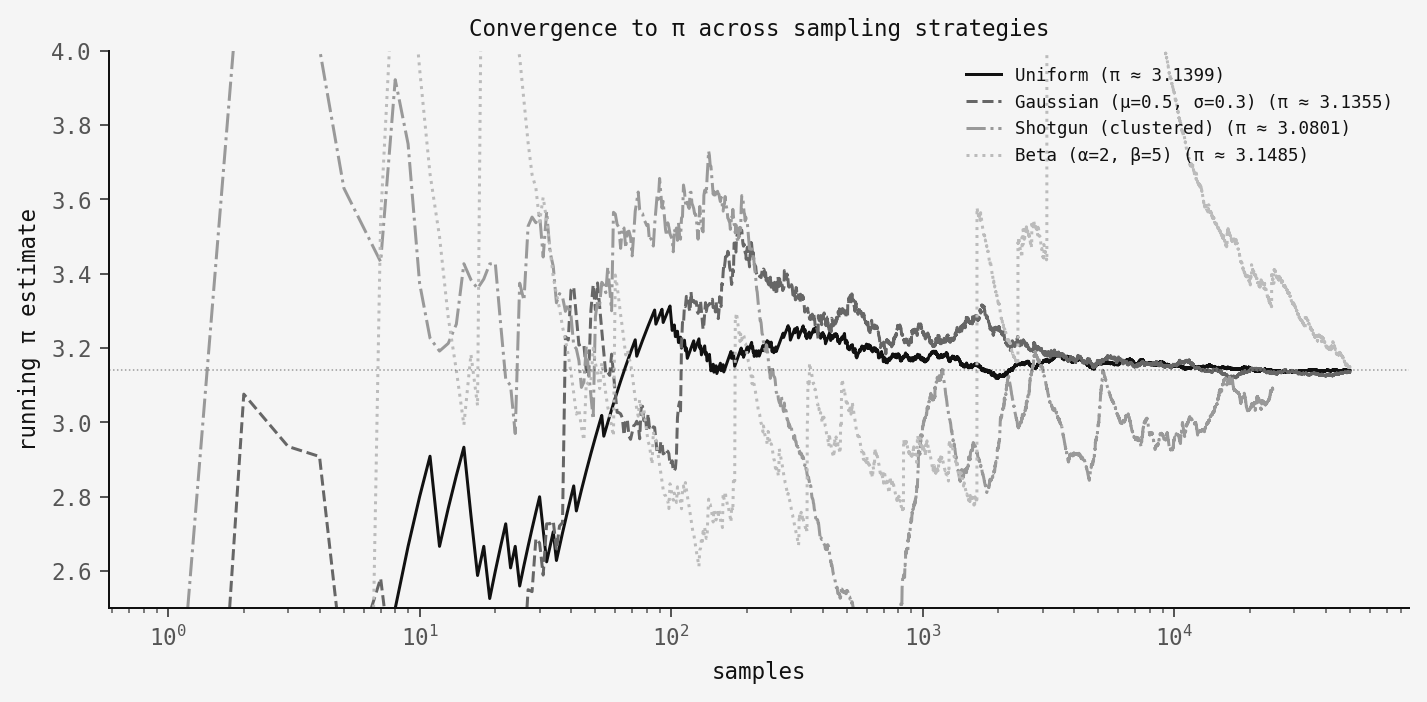
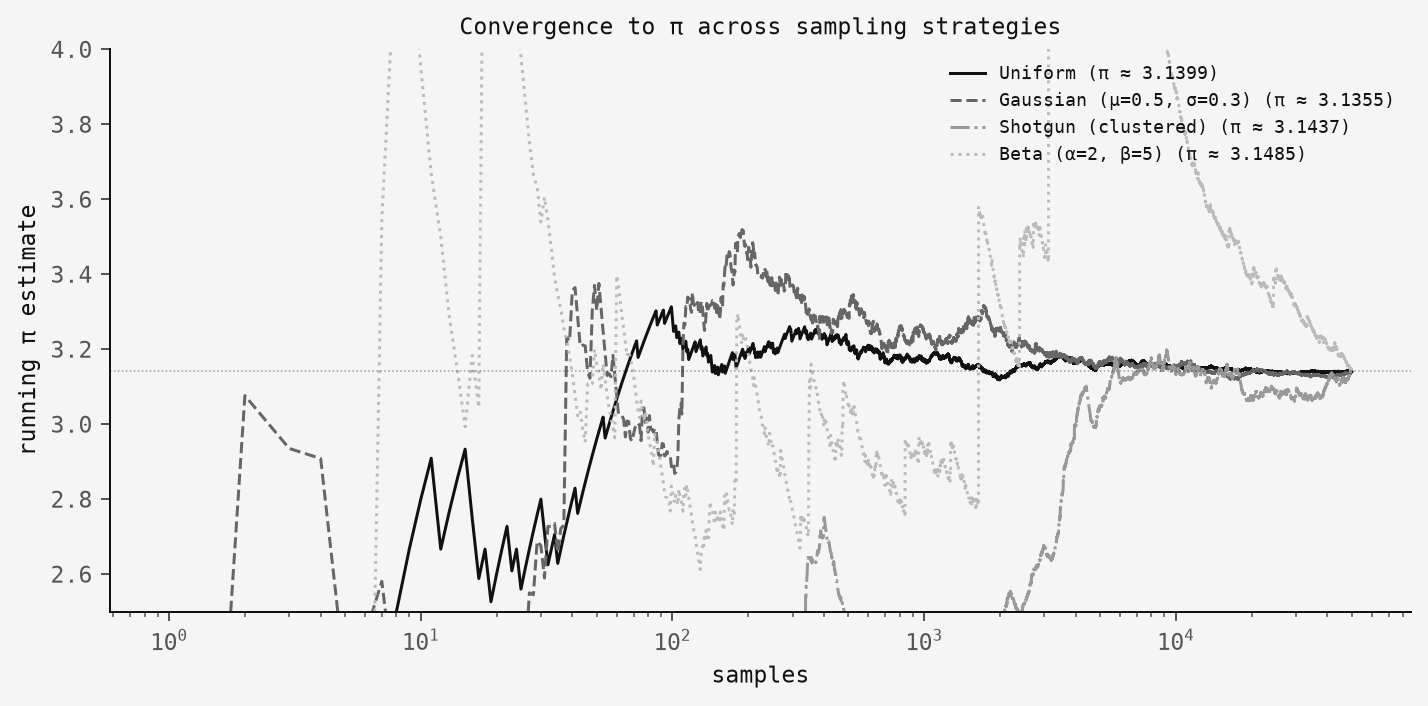
Fix the review findings in the post scripts, the simulations, the footer and the figures.

diff --git a/posts/zombie-pi/post.html b/posts/zombie-pi/post.html
@@ -120,7 +120,10 @@ tags: [monte-carlo, statistics, python]
       <p>
         They all end up at π. Uniform is the smoothest, since nothing needs
         correcting. Gaussian and Beta get there too but wobble a bit more,
-        because the weights add variance. The shotgun is the noisiest of the
+        because the weights add variance. Beta is the risky one: its density
+        drops to zero at the edges of the square, so the weights there have
+        no upper bound and its variance is infinite. With another seed it can
+        land well away from π. The shotgun is the noisiest of the
         four. Its density q(x) has to be estimated from the data, so there's
         uncertainty in the weights on top of the usual sampling noise.
       </p>
@@ -184,9 +187,11 @@ tags: [monte-carlo, statistics, python]
       <p>
         The shotgun was the hardest of the four because there's no formula
         for its density. I had to estimate q(x) from the pellet holes
-        themselves, using half the samples to build a histogram and the
-        other half to compute π, as in the paper. The result is noisy, but
-        it still converges.
+        themselves with a 2D histogram, and then rescale it so that the
+        weights inside the square average to the square's area. Without
+        the rescale the estimate came out several percent off, because the
+        histogram only sees the pellets that hit the square. The result is
+        noisy, but it still converges.
       </p>
 
       <p>

diff --git a/posts/parrondos-paradox/post.html b/posts/parrondos-paradox/post.html
@@ -122,15 +122,21 @@ tags: [python, monte-carlo, statistics]
         The game logic is one short function:
       </p>
 
-<pre><code>def play_round(capital, game, rng, p1=0.495, p2=0.095, p3=0.745):
-    """Play one round. Returns +1 (win) or -1 (loss)."""
-    if game == 'A':
-        return 1 if rng.random() < p1 else -1
-    else:  # Game B
-        if capital % 3 == 0:
-            return 1 if rng.random() < p2 else -1
+<pre><code>def simulate(strategy, n_rounds, n_players, rng, p1=0.495, p2=0.095, p3=0.745):
+    capitals = np.zeros((n_players, n_rounds + 1), dtype=int)
+    cap = np.zeros(n_players, dtype=int)
+
+    for t in range(n_rounds):
+        if strategy == 'AB':
+            play_a = rng.random(n_players) &lt; 0.5
         else:
-            return 1 if rng.random() < p3 else -1</code></pre>
+            play_a = np.full(n_players, strategy == 'A')
+        p_b = np.where(cap % 3 == 0, p2, p3)
+        p_win = np.where(play_a, p1, p_b)
+        cap += np.where(rng.random(n_players) &lt; p_win, 1, -1)
+        capitals[:, t + 1] = cap
+
+    return capitals</code></pre>
 
       <p>
         Game A uses one fixed probability. Game B looks at your capital mod 3

diff --git a/_includes/footer.html b/_includes/footer.html
@@ -1,1 +1,1 @@
-<footer class="footer"{% if include.full_width %} style="width:100%"{% endif %}>&copy; {{ site.time | date: '%Y' }} justesen.xyz</footer>
+<footer class="footer"{% if include.full_width %} style="width:100%"{% endif %}>&copy; 2026 justesen.xyz</footer>

diff --git a/posts/zombie-pi/code.py b/posts/zombie-pi/code.py
@@ -4,7 +4,7 @@ code.py — Estimating π with Monte Carlo & Importance Sampling
 Demonstrates that you can estimate π using *any* 2D distribution,
 not just uniform sampling, by applying importance sampling weights.
 
-Generates figures for the accompanying blog post.
+Writes the figures for the blog post to the site's assets/ directory.
 
 Usage:
     python code.py
@@ -13,7 +13,7 @@ Requirements:
     numpy, matplotlib, scipy
 """
 
-import os
+from pathlib import Path
 
 import matplotlib.pyplot as plt
 import numpy as np
@@ -22,8 +22,7 @@ from scipy import stats
 # ── Config ──────────────────────────────────────────────────
 RNG = np.random.default_rng(42)
 N_SAMPLES = 50_000
-FIG_DIR = "figures"
-os.makedirs(FIG_DIR, exist_ok=True)
+FIG_DIR = Path(__file__).resolve().parents[2] / "assets"
 
 # Plot style — monochrome, minimal, matches the site
 plt.rcParams.update(
@@ -46,12 +45,12 @@ plt.rcParams.update(
 
 # ── Helpers ─────────────────────────────────────────────────
 def in_quarter_circle(x: np.ndarray, y: np.ndarray) -> np.ndarray:
-    """g(x, y) = 1 if x² + y² ≤ 1, else 0."""
+    """Return 1.0 where x² + y² ≤ 1, else 0.0. :param x: np.ndarray :param y: np.ndarray :rtype: np.ndarray"""
     return (x**2 + y**2 <= 1.0).astype(float)
 
 
 def estimate_pi_uniform(x: np.ndarray, y: np.ndarray) -> float:
-    """Classic Monte Carlo: π ≈ 4 * (hits / N)."""
+    """Return the plain Monte Carlo estimate 4 · hits / N. :param x: np.ndarray :param y: np.ndarray :rtype: float"""
     return 4.0 * in_quarter_circle(x, y).mean()
 
 
@@ -61,33 +60,19 @@ def estimate_pi_importance(
     q_x: np.ndarray,
     q_y: np.ndarray,
 ) -> float:
-    """
-    Importance sampling estimate of π.
-
-    f(x,y) = 1 on [0,1]² (the target uniform density)
-    q(x,y) = q_x * q_y  (the proposal density, factorised)
-
-    π ≈ 4 * (1/N) Σ g(xᵢ,yᵢ) * f(xᵢ,yᵢ) / q(xᵢ,yᵢ)
-
-    We only count samples that land in [0,1]², and the
-    importance weight corrects for the non-uniform density.
-    """
+    """Return 4 · mean(g · f / q) with f = 1 on [0,1]² and q = q_x · q_y. :param x: np.ndarray :param y: np.ndarray :param q_x: np.ndarray :param q_y: np.ndarray :rtype: float"""
     mask = (x >= 0) & (x <= 1) & (y >= 0) & (y <= 1)
     g = in_quarter_circle(x[mask], y[mask])
     weights = 1.0 / (q_x[mask] * q_y[mask])  # f=1 on the unit square
-    # Scale by (total samples / in-square samples) isn't needed if we
-    # use the full-sample mean with 0 contribution outside [0,1]²
-    # But cleaner: use the proper IS estimator over ALL samples
     full_weights = np.zeros_like(x)
     full_g = np.zeros_like(x)
     full_g[mask] = g
     full_weights[mask] = weights
-    full_weights[~mask] = 0.0  # f(x)=0 outside unit square
     return 4.0 * np.mean(full_g * full_weights)
 
 
 def convergence_curve(estimates: np.ndarray) -> np.ndarray:
-    """Running cumulative mean."""
+    """Return the running mean. :param estimates: np.ndarray :rtype: np.ndarray"""
     return np.cumsum(estimates) / np.arange(1, len(estimates) + 1)
 
 
@@ -124,8 +109,7 @@ class GaussianSampler:
 
 
 class ShotgunSampler:
-    """Simulates a clustered shotgun-like spread — bivariate Gaussian
-    with a random center per 'shot' (batch of pellets)."""
+    """Clustered pellets: a Gaussian spread around a random aim point per shot."""
 
     name = "Shotgun (clustered)"
     color = "#999"
@@ -146,30 +130,18 @@ class ShotgunSampler:
         x = np.concatenate(xs)[:n]
         y = np.concatenate(ys)[:n]
 
-        # Estimate q(x,y) with 2D histogram (like the paper)
-        # Use half for density estimation
-        split = n // 2
-        x_est, y_est = x[:split], y[:split]
-        x_eval, y_eval = x[split:], y[split:]
+        bins = 40
+        hist, xedges, yedges = np.histogram2d(x, y, bins=bins, range=[[0, 1], [0, 1]], density=True)
+        x_idx = np.clip(np.digitize(x, xedges) - 1, 0, bins - 1)
+        y_idx = np.clip(np.digitize(y, yedges) - 1, 0, bins - 1)
+        in_square = (x >= 0) & (x <= 1) & (y >= 0) & (y <= 1)
+        # q comes from the same pellets it weights, so every in-square pellet has a non-empty bin.
+        q_vals = np.where(in_square, hist[x_idx, y_idx], 1.0)
+        # The histogram only sees pellets inside the square, so q is rescaled until the
+        # in-square weights average to the square's area (1); this makes the estimate self-normalised.
+        q_vals = q_vals * np.mean(np.where(in_square, 1.0 / q_vals, 0.0))
 
-        bins = 20
-        hist, xedges, yedges = np.histogram2d(x_est, y_est, bins=bins, range=[[0, 1], [0, 1]], density=True)
-
-        # Smooth the histogram a bit to avoid zero bins
-        from scipy.ndimage import uniform_filter
-
-        hist = uniform_filter(hist, size=2)
-        # Renormalize
-        bin_area = (1.0 / bins) ** 2
-        hist = hist / (hist.sum() * bin_area)
-
-        # For each eval point, look up the bin density
-        x_idx = np.clip(np.digitize(x_eval, xedges) - 1, 0, bins - 1)
-        y_idx = np.clip(np.digitize(y_eval, yedges) - 1, 0, bins - 1)
-        q_vals = hist[x_idx, y_idx]
-        q_vals = np.maximum(q_vals, 0.01)  # floor to avoid extreme weights
-
-        return x_eval, y_eval, q_vals, np.ones_like(q_vals)
+        return x, y, q_vals, np.ones_like(q_vals)
 
 
 class BetaSampler:
@@ -199,11 +171,9 @@ for sampler in samplers:
 
     if isinstance(sampler, UniformSampler):
         pi_est = estimate_pi_uniform(x, y)
-        # Per-sample estimates for convergence
         per_sample = 4.0 * in_quarter_circle(x, y)
     else:
         pi_est = estimate_pi_importance(x, y, qx, qy)
-        # Per-sample weighted estimates for convergence
         mask = (x >= 0) & (x <= 1) & (y >= 0) & (y <= 1)
         per_sample = np.zeros_like(x)
         g = in_quarter_circle(x[mask], y[mask])
@@ -229,7 +199,6 @@ for ax, sampler in zip(axes, samplers):
     r = results[sampler.name]
     x, y = r["x"], r["y"]
 
-    # Clip to visible range for plotting
     vis = (x >= -0.1) & (x <= 1.1) & (y >= -0.1) & (y <= 1.1)
     xv, yv = x[vis][:5000], y[vis][:5000]
     inside = in_quarter_circle(xv, yv).astype(bool)
@@ -237,7 +206,6 @@ for ax, sampler in zip(axes, samplers):
     ax.scatter(xv[inside], yv[inside], s=0.5, c="#111", alpha=0.3, linewidths=0)
     ax.scatter(xv[~inside], yv[~inside], s=0.5, c="#aaa", alpha=0.3, linewidths=0)
 
-    # Quarter circle arc
     theta = np.linspace(0, np.pi / 2, 100)
     ax.plot(np.cos(theta), np.sin(theta), c="#111", lw=0.8)
     ax.set_xlim(-0.05, 1.05)
@@ -287,7 +255,6 @@ print(f"Saved {FIG_DIR}/convergence.png")
 # ── Figure 3: Importance weights heatmap (Gaussian case) ───
 fig, axes = plt.subplots(1, 3, figsize=(12, 3.8))
 
-# Panel 1: Gaussian density
 gx = np.linspace(0, 1, 100)
 gy = np.linspace(0, 1, 100)
 GX, GY = np.meshgrid(gx, gy)
@@ -297,14 +264,12 @@ axes[0].contourf(GX, GY, Z_q, levels=20, cmap="Greys")
 axes[0].set_title("q(x,y): proposal density", fontsize=8)
 axes[0].set_aspect("equal")
 
-# Panel 2: Importance weights f/q
-Z_f = np.ones_like(GX)  # uniform on [0,1]²
+Z_f = np.ones_like(GX)
 Z_w = Z_f / Z_q
 axes[1].contourf(GX, GY, Z_w, levels=20, cmap="Greys")
 axes[1].set_title("f(x,y) / q(x,y): importance weights", fontsize=8)
 axes[1].set_aspect("equal")
 
-# Panel 3: Effective weighted samples
 r = results[gauss.name]
 x, y = r["x"], r["y"]
 vis = (x >= 0) & (x <= 1) & (y >= 0) & (y <= 1)
@@ -328,4 +293,4 @@ fig.savefig(f"{FIG_DIR}/importance_weights.png", dpi=180, bbox_inches="tight")
 plt.close(fig)
 print(f"Saved {FIG_DIR}/importance_weights.png")
 
-print("\nDone. All figures saved to figures/")
+print(f"\nDone. All figures saved to {FIG_DIR}")

diff --git a/posts/parrondos-paradox/code.py b/posts/parrondos-paradox/code.py
@@ -4,7 +4,7 @@ code.py — Parrondo's Paradox: Two Losing Games Make a Winner
 Simulates Game A (biased coin) and Game B (capital-dependent coin),
 shows that both lose individually but win when combined.
 
-Generates figures for the accompanying blog post.
+Writes the figures for the blog post to the site's assets/ directory.
 
 Usage:
     python code.py
@@ -13,7 +13,7 @@ Requirements:
     numpy, matplotlib
 """
 
-import os
+from pathlib import Path
 
 import matplotlib.pyplot as plt
 import numpy as np
@@ -22,8 +22,7 @@ import numpy as np
 RNG = np.random.default_rng(42)
 N_ROUNDS = 10_000
 N_PLAYERS = 1_000
-FIG_DIR = 'figures'
-os.makedirs(FIG_DIR, exist_ok=True)
+FIG_DIR = Path(__file__).resolve().parents[2] / 'assets'
 
 # Default probabilities
 P1 = 0.495       # Game A: win probability (< 0.5, losing)
@@ -50,43 +49,27 @@ plt.rcParams.update(
 
 
 # ── Core functions ──────────────────────────────────────────
-def play_round(capital, game, rng, p1=P1, p2=P2, p3=P3):
-    """Play one round. Returns +1 (win) or -1 (loss)."""
-    if game == 'A':
-        return 1 if rng.random() < p1 else -1
-    else:  # Game B
-        if capital % 3 == 0:
-            return 1 if rng.random() < p2 else -1
-        else:
-            return 1 if rng.random() < p3 else -1
-
-
 def simulate(strategy, n_rounds, n_players, rng, p1=P1, p2=P2, p3=P3):
-    """
-    Simulate n_players playing n_rounds.
-
-    strategy: 'A', 'B', or 'AB' (random switching, 50/50 each round)
-    Returns: (n_players, n_rounds+1) array of capital over time.
-    """
+    """Return capital paths of shape (n_players, n_rounds + 1). :param strategy: str 'A', 'B' or 'AB' (50/50 switch each round) :param n_rounds: int :param n_players: int :param rng: np.random.Generator :param p1: float :param p2: float :param p3: float :rtype: np.ndarray"""
     capitals = np.zeros((n_players, n_rounds + 1), dtype=int)
+    cap = np.zeros(n_players, dtype=int)
 
-    for i in range(n_players):
-        cap = 0
-        for t in range(n_rounds):
-            if strategy == 'A':
-                game = 'A'
-            elif strategy == 'B':
-                game = 'B'
-            else:  # AB random switching
-                game = 'A' if rng.random() < 0.5 else 'B'
-            cap += play_round(cap, game, rng, p1, p2, p3)
-            capitals[i, t + 1] = cap
+    for t in range(n_rounds):
+        if strategy == 'AB':
+            play_a = rng.random(n_players) < 0.5
+        else:
+            play_a = np.full(n_players, strategy == 'A')
+        p_b = np.where(cap % 3 == 0, p2, p3)
+        p_win = np.where(play_a, p1, p_b)
+        cap += np.where(rng.random(n_players) < p_win, 1, -1)
+        capitals[:, t + 1] = cap
 
     return capitals
 
 
 # ── Figure 1: Capital trajectories ─────────────────────────
 def figure_1_trajectories(results):
+    """Plot mean capital over time per strategy. :param results: dict[str, np.ndarray] :rtype: None"""
     fig, ax = plt.subplots(figsize=(8, 4))
 
     styles = {
@@ -113,20 +96,18 @@ def figure_1_trajectories(results):
 
 # ── Figure 2: Mod-3 state distribution ─────────────────────
 def figure_2_state_distribution(results):
+    """Plot the capital mod 3 frequencies. :param results: dict[str, np.ndarray] :rtype: None"""
     fig, axes = plt.subplots(1, 3, figsize=(12, 3.8))
 
     bar_colors = ['#111', '#666', '#999']
     labels = ['0 (bad coin)', '1', '2']
 
-    # Game B alone — collect mod-3 states from all rounds
-    b_caps = results['B'][:, 1:].flatten()  # skip initial 0
+    b_caps = results['B'][:, 1:].flatten()
     b_counts = np.array([(b_caps % 3 == i).mean() for i in range(3)])
 
-    # Combined — collect mod-3 states
     ab_caps = results['AB'][:, 1:].flatten()
     ab_counts = np.array([(ab_caps % 3 == i).mean() for i in range(3)])
 
-    # Theoretical uniform
     uniform = np.array([1/3, 1/3, 1/3])
 
     panels = [
@@ -142,7 +123,6 @@ def figure_2_state_distribution(results):
         ax.set_ylim(0, 0.5)
         ax.set_ylabel('frequency')
         ax.set_title(title, fontsize=9)
-        # Annotate bar values
         for bar, val in zip(bars, counts):
             ax.text(bar.get_x() + bar.get_width() / 2, bar.get_height() + 0.01,
                     f'{val:.3f}', ha='center', va='bottom', fontsize=7)
@@ -155,6 +135,7 @@ def figure_2_state_distribution(results):
 
 # ── Figure 3: Parameter sweep heatmap ──────────────────────
 def figure_3_parameter_sweep(rng):
+    """Plot the combined-strategy gain over a (p2, p3) grid. :param rng: np.random.Generator :rtype: None"""
     p1_fixed = 0.495
     p2_range = np.linspace(0.0, 0.5, 20)
     p3_range = np.linspace(0.5, 1.0, 20)
@@ -173,10 +154,8 @@ def figure_3_parameter_sweep(rng):
     im = ax.imshow(gain, origin='lower', aspect='auto', cmap='Greys',
                    extent=[p2_range[0], p2_range[-1], p3_range[0], p3_range[-1]])
 
-    # Contour at 0 (win/lose boundary)
     ax.contour(p2_range, p3_range, gain, levels=[0], colors=['#111'], linewidths=1.0)
 
-    # Mark default parameters
     ax.plot(P2, P3, 'o', color='#111', markersize=6, markeredgecolor='white', markeredgewidth=1.0)
     ax.annotate('default', (P2, P3), textcoords='offset points', xytext=(8, -12),
                 fontsize=7, color='#111')
@@ -207,4 +186,4 @@ if __name__ == '__main__':
     figure_1_trajectories(results)
     figure_2_state_distribution(results)
     figure_3_parameter_sweep(RNG)
-    print('\nDone. All figures saved to figures/')
+    print(f'\nDone. All figures saved to {FIG_DIR}')
